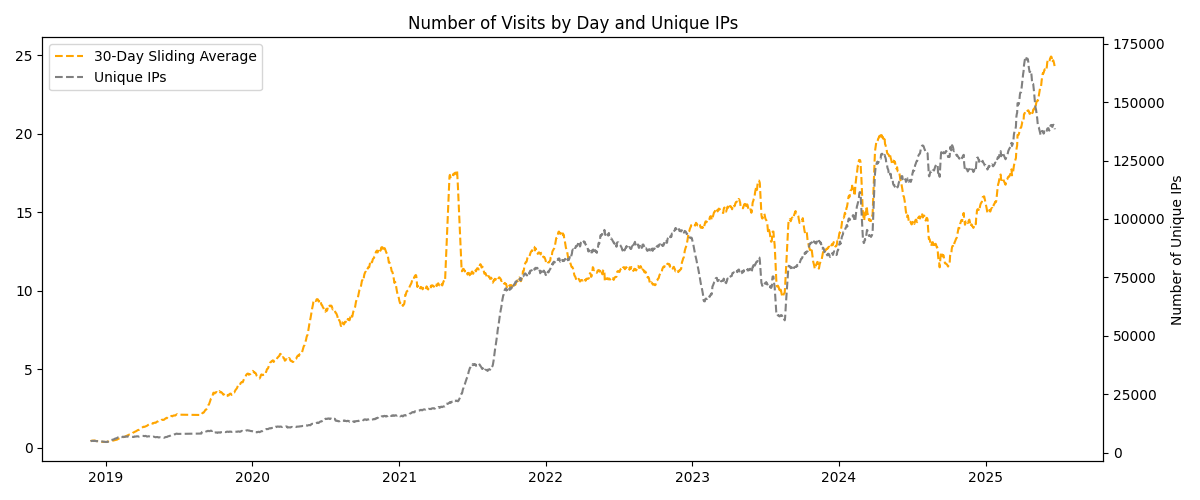
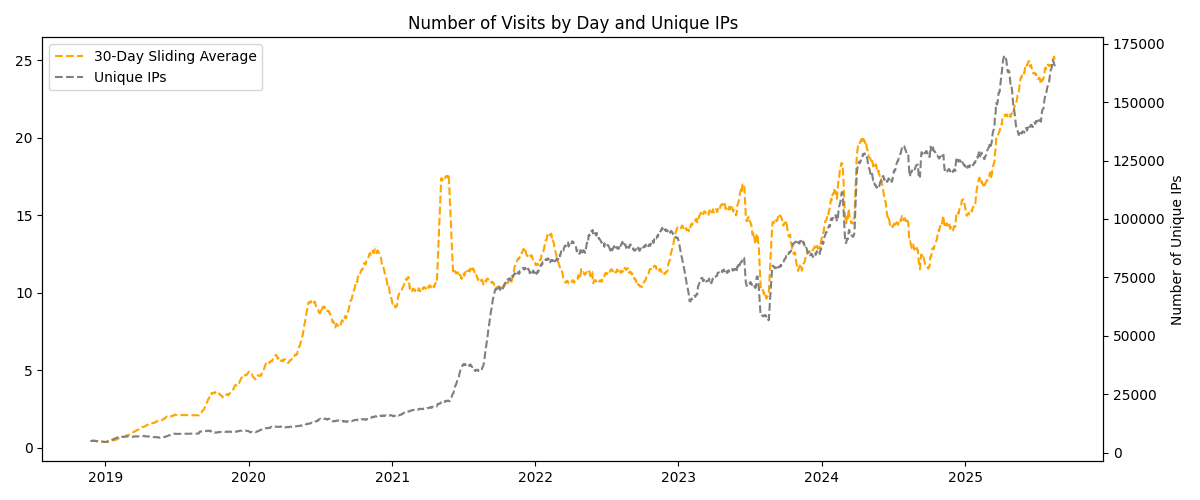
Update stats

diff --git a/README.md b/README.md
@@ -751,6 +751,6 @@ server {
 
 ## wttr.in usage stats
 
-As of the end of June 2025, *wttr.in* handles 20-25 million queries per day from 150,000 to 175,000 users, according to the access logs.
+As of the end of August 2025, *wttr.in* handles 22-27 million queries per day from 170,000 to 190,000 users, according to the access logs.
 
 ![wttr.in usage stats](share/stats/stats.png)
